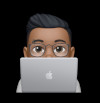
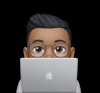
imagens perfil

Changed region(s): [[0.15, 0.129, 0.81, 1.0], [0.45, 0.7742, 0.54, 0.8602], [0.48, 0.7097, 0.51, 0.7527]]

diff --git a/index.html b/index.html
@@ -12,7 +12,7 @@
 
 <body>
     <main>
-        <header><img src="imagens/minha-foto-pq.png" alt="minha foto">
+        <header><img src="imagens/perfil01.jpeg" alt="minha foto">
             <p>Gustavo Gomes</p>
             <p>Analista Financeiro</p>
             <p>Desenvolvedor Front-End</p>

diff --git a/style.css b/style.css
@@ -15,7 +15,7 @@ header {
 }
 
 header > img{
-    border-radius: 80px;
+    border-radius: 60px;
     border: 2px solid black;
     height: 100px;
     width: auto;
